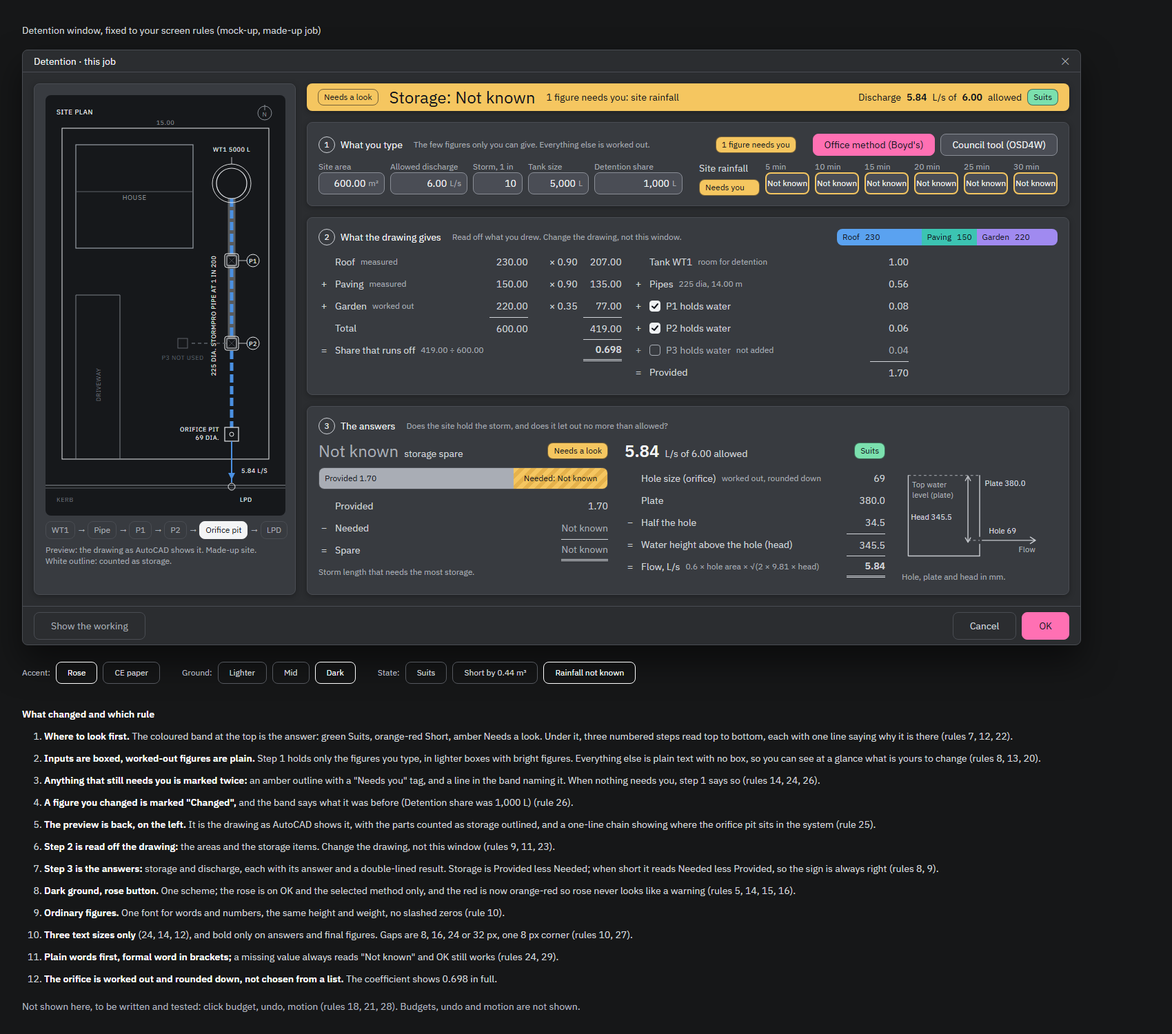
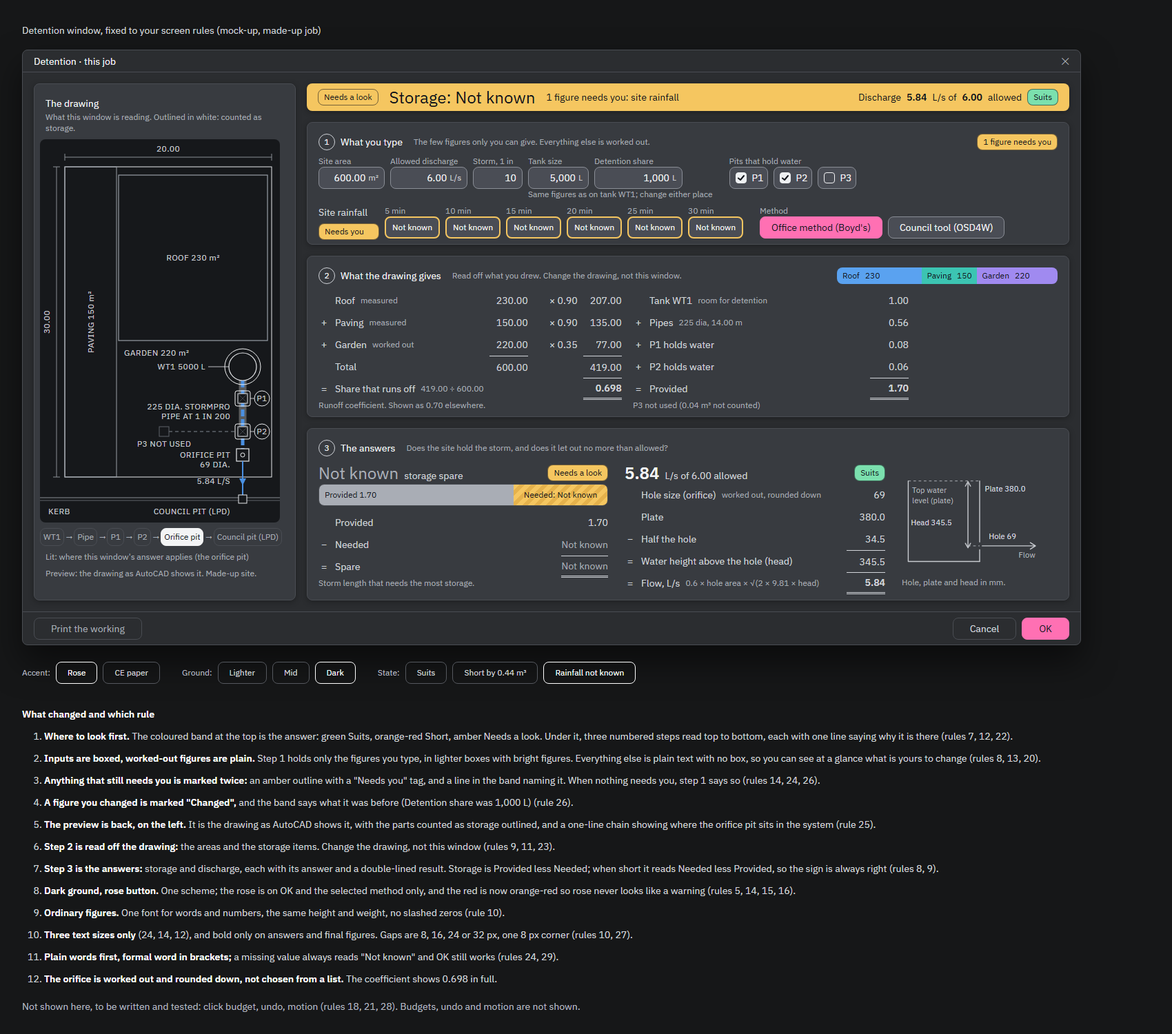
zero: Detention mock-up version 4, checker's blockers fixed

Changed region(s): [[0.0312, 0.092, 0.9041, 0.6133]]

diff --git a/zero/pictures/detention_fixed_mockup.html b/zero/pictures/detention_fixed_mockup.html
@@ -13,7 +13,7 @@
   --win:#2B2D30; --card:#383B40; --well:#232528; --line:#4A4D53;
   --field:#4A4D55; --fieldline:#8A8E96;
   --t-answer:#F3F4F5; --t-body:#D2D5DA; --t-note:#A9AEB6;
-  --sv0:#80848C; --sv1:#C8CBD0; --sv2:#DADCE0; --sv3:#B4B8BE;
+  --unit:#C8CBD0; --sv0:#80848C; --sv1:#C8CBD0; --sv2:#DADCE0; --sv3:#B4B8BE;
   --green:#7BE0AE; --amber:#F5C660; --red:#FF6B4A;
   --ink:#10131A;
   --fill:#A9ADB5;
@@ -40,10 +40,14 @@ body{background:var(--page);color:var(--t-body);font-family:var(--sans);font-siz
 .strong{font-weight:600}
 
 /* preview */
-.preview{width:380px;flex:none;padding:16px;display:flex;flex-direction:column;gap:8px}
+.preview{width:380px;flex:none;padding:16px 8px;display:flex;flex-direction:column;gap:8px}
+.preview .phead{padding:0 8px}
+.preview .phead .t{color:var(--t-answer);display:block;height:24px}
+.preview .phead .note{display:block;height:32px}
+.preview .foot{padding:0 8px}
 .preview svg{display:block;flex:none}
-.chain{display:flex;align-items:center;gap:4px;font-size:12px;line-height:16px;color:var(--t-note);flex:none}
-.chip{border:1px solid var(--line);border-radius:var(--r);padding:4px 8px;color:var(--t-note);white-space:nowrap}
+.chain{display:flex;align-items:center;gap:2px;font-size:12px;line-height:16px;color:var(--t-note);flex:none;white-space:nowrap}
+.chip{border:1px solid var(--line);border-radius:var(--r);padding:4px;color:var(--t-note);white-space:nowrap}
 .chip.lit{background:var(--t-answer);border-color:var(--t-answer);color:var(--ink)}
 
 .right{flex:1;min-width:0;display:flex;flex-direction:column;gap:16px}
@@ -61,7 +65,7 @@ body{background:var(--page);color:var(--t-body);font-family:var(--sans);font-siz
 .pill.changed{background:transparent;color:var(--t-body);border-color:var(--t-body)}
 
 /* steps */
-.step{padding:16px;flex:none}
+.step{padding:16px 16px 8px;flex:none}
 .step.grow{flex:1;min-height:0}
 .shead{display:flex;align-items:center;gap:8px;height:24px;margin-bottom:8px;white-space:nowrap}
 .shead.tall{height:32px}
@@ -70,15 +74,24 @@ body{background:var(--page);color:var(--t-body);font-family:var(--sans);font-siz
 .shead .sp{flex:1}
 
 /* inputs: boxed and bright */
-.row1{display:flex;align-items:flex-end;gap:24px}
+.row1{display:flex;align-items:flex-start;gap:24px}
+.rowb{margin-top:8px;align-items:flex-end}
 .fields{display:flex;gap:8px}
 .fld{display:flex;flex-direction:column}
 .fld > .note{height:16px}
 .inp{height:32px;display:flex;align-items:center;justify-content:flex-end;gap:4px;padding:0 8px;background:var(--field);border:1px solid var(--fieldline);border-radius:var(--r);color:var(--t-answer);font-size:14px;white-space:nowrap}
-.inp .u{font-size:12px;color:var(--t-note)}
+.inp .u{font-size:12px;color:var(--unit)}
 .inp.needs{border:2px solid var(--amber);padding:0 7px}
-.inp.nk{font-size:12px;justify-content:center;padding:0}
-.inp.nk.needs{padding:0}
+.inp.nk{font-size:12px;justify-content:center;padding:0 8px}
+.inp.nk.needs{padding:0 6px}
+.inp.tick{gap:8px;justify-content:flex-start}
+.inp .cb2{width:16px;height:16px;border:1.5px solid var(--t-answer);border-radius:4px;display:inline-flex;align-items:center;justify-content:center;flex:none}
+.inp .cb2.on{background:#EEF0F2;border-color:#EEF0F2}
+.pair{display:flex;flex-direction:column}
+.pair .pr{display:flex;gap:8px}
+.grp{display:flex;flex-direction:column}
+.grp > .note{height:16px}
+.grp .gb{display:flex;gap:8px}
 .rain{display:flex;gap:8px;align-items:flex-end}
 .gl{width:88px;height:48px;display:flex;flex-direction:column;justify-content:center;gap:4px}
 .mbtn{height:32px;padding:0 16px;border-radius:var(--r);border:1px solid var(--fieldline);background:var(--field);color:var(--t-answer);font:inherit;cursor:pointer;white-space:nowrap}
@@ -117,7 +130,7 @@ body{background:var(--page);color:var(--t-body);font-family:var(--sans);font-siz
 .abar div:first-child{border-radius:8px 0 0 8px}
 .abar div:last-child{border-radius:0 8px 8px 0}
 
-.ans{height:32px;display:flex;align-items:baseline;gap:8px;margin-bottom:8px;white-space:nowrap}
+.ans{height:32px;display:flex;align-items:baseline;gap:8px;margin-bottom:0;white-space:nowrap}
 .ans .big{font-size:24px;line-height:32px;color:var(--t-answer)}
 .ans .big.nk{color:var(--t-note);font-weight:400}
 .ans .pill{align-self:center;margin-left:auto}
@@ -134,9 +147,9 @@ body{background:var(--page);color:var(--t-body);font-family:var(--sans);font-siz
 .tb{fill:var(--sv2);stroke:none;font-family:var(--sans);font-size:12px}
 .tn{fill:var(--sv3);stroke:none;font-family:var(--sans);font-size:12px}
 
-.bottom{height:56px;flex:none;border-top:1px solid var(--line);display:flex;justify-content:space-between;align-items:center;padding:0 16px}
+.bottom{height:48px;flex:none;border-top:1px solid var(--line);display:flex;justify-content:space-between;align-items:center;padding:0 16px}
 .bottom .btns{display:flex;gap:8px}
-.btn{height:40px;padding:0 24px;border-radius:var(--r);border:1px solid var(--line);background:transparent;color:var(--t-body);font:inherit}
+.btn{height:32px;padding:0 24px;border-radius:var(--r);border:1px solid var(--line);background:transparent;color:var(--t-body);font:inherit}
 .btn.quiet{color:var(--t-note)}
 .btn.ok{background:var(--acc);border-color:var(--acc);color:var(--acc-ink)}
 
@@ -164,7 +177,7 @@ body{background:var(--page);color:var(--t-body);font-family:var(--sans);font-siz
     </div>
   </div>
   <div class="bottom">
-    <button class="btn quiet">Show the working</button>
+    <button class="btn quiet">Print the working</button>
     <div class="btns"><button class="btn">Cancel</button><button class="btn ok">OK</button></div>
   </div>
 </div>
@@ -186,7 +199,7 @@ body{background:var(--page);color:var(--t-body);font-family:var(--sans);font-siz
     <li><b>Anything that still needs you is marked twice:</b> an amber outline with a "Needs you" tag, and a line in the band naming it. When nothing needs you, step 1 says so (rules 14, 24, 26).</li>
     <li><b>A figure you changed is marked "Changed",</b> and the band says what it was before (Detention share was 1,000 L) (rule 26).</li>
     <li><b>The preview is back, on the left.</b> It is the drawing as AutoCAD shows it, with the parts counted as storage outlined, and a one-line chain showing where the orifice pit sits in the system (rule 25).</li>
-    <li><b>Step 2 is read off the drawing:</b> the areas and the storage items. Change the drawing, not this window (rules 9, 11, 23).</li>
+    <li><b>Step 2 is read off the drawing:</b> the areas and the storage items, all plain text. Which pits hold water is now a boxed choice in step 1 (rules 9, 11, 23).</li>
     <li><b>Step 3 is the answers:</b> storage and discharge, each with its answer and a double-lined result. Storage is Provided less Needed; when short it reads Needed less Provided, so the sign is always right (rules 8, 9).</li>
     <li><b>Dark ground, rose button.</b> One scheme; the rose is on OK and the selected method only, and the red is now orange-red so rose never looks like a warning (rules 5, 14, 15, 16).</li>
     <li><b>Ordinary figures.</b> One font for words and numbers, the same height and weight, no slashed zeros (rule 10).</li>
@@ -205,62 +218,52 @@ body{background:var(--page);color:var(--t-body);font-family:var(--sans);font-siz
   var ground = q.get('ground')==='mid'?'mid':(q.get('ground')==='lighter'?'lighter':'dark');
 
   var grounds={
-    lighter:{win:'#4E5158',card:'#62656E',well:'#40434A',line:'#7C8089',field:'#787B85',fl:'#D5D8DC',a:'#FFFFFF',b:'#F0F1F3',n:'#E2E4E8',sv:['#B9BCC3','#E6E8EB','#F0F1F3','#E2E4E8']},
-    mid:{win:'#3F4247',card:'#50535A',well:'#313338',line:'#6A6D75',field:'#62656D',fl:'#B9BCC3',a:'#FFFFFF',b:'#E6E8EB',n:'#CBCED3',sv:['#9EA2AA','#D5D8DC','#E6E8EB','#CBCED3']},
-    dark:{win:'#2B2D30',card:'#383B40',well:'#232528',line:'#4A4D53',field:'#4A4D55',fl:'#8A8E96',a:'#F3F4F5',b:'#D2D5DA',n:'#A9AEB6',sv:['#80848C','#C8CBD0','#DADCE0','#B4B8BE']}
+    lighter:{unit:'#F0F1F3',win:'#4E5158',card:'#62656E',well:'#40434A',line:'#7C8089',field:'#787B85',fl:'#D5D8DC',a:'#FFFFFF',b:'#F0F1F3',n:'#E2E4E8',sv:['#B9BCC3','#E6E8EB','#F0F1F3','#E2E4E8']},
+    mid:{unit:'#E6E8EB',win:'#3F4247',card:'#50535A',well:'#313338',line:'#6A6D75',field:'#62656D',fl:'#B9BCC3',a:'#FFFFFF',b:'#E6E8EB',n:'#CBCED3',sv:['#9EA2AA','#D5D8DC','#E6E8EB','#CBCED3']},
+    dark:{unit:'#C8CBD0',win:'#2B2D30',card:'#383B40',well:'#232528',line:'#4A4D53',field:'#4A4D55',fl:'#8A8E96',a:'#F3F4F5',b:'#D2D5DA',n:'#A9AEB6',sv:['#80848C','#C8CBD0','#DADCE0','#B4B8BE']}
   };
 
   var tick='<svg width="12" height="12" viewBox="0 0 12 12" fill="none" stroke="#10131A" stroke-width="2" stroke-linecap="round" stroke-linejoin="round"><path d="M2 6.5 L5 9 L10 3"/></svg>';
   var rain=[['5 min','98.6'],['10 min','73.6'],['15 min','60.1'],['20 min','51.5'],['25 min','45.5'],['30 min','40.9']];
 
   function previewSvg(){
-    var T='font-family="IBM Plex Sans, Segoe UI, sans-serif" letter-spacing="0.5"';
-    return '<svg width="348" height="610" viewBox="0 0 348 610">'+
-    '<rect x="0" y="0" width="348" height="610" rx="8" fill="#16181B"/>'+
-    '<text x="16" y="28" fill="#E8EAED" font-size="10" '+T+'>SITE PLAN</text>'+
-    '<circle cx="318" cy="26" r="10" fill="none" stroke="#8A8F96"/><path d="M318 14 V22" stroke="#8A8F96"/><text x="318" y="31" text-anchor="middle" fill="#8A8F96" font-size="9" '+T+'>N</text>'+
-    // boundary
-    '<rect x="24" y="48" width="300" height="480" fill="none" stroke="#E8EAED" stroke-width="1"/>'+
-    '<text x="174" y="43" text-anchor="middle" fill="#8A8F96" font-size="9" '+T+'>15.00</text>'+
-    // house
-    '<rect x="44" y="72" width="170" height="150" fill="none" stroke="#9AA0A8" stroke-width="1.2"/>'+
-    '<path d="M44 140 H214" stroke="#5E636B"/>'+
-    '<text x="129" y="152" text-anchor="middle" fill="#8A8F96" font-size="10" '+T+'>HOUSE</text>'+
-    // driveway
-    '<path d="M44 528 V290 H108 V528" fill="none" stroke="#7C8189" stroke-width="1"/>'+
-    '<text transform="translate(80 420) rotate(-90)" text-anchor="middle" fill="#6E737B" font-size="9" '+T+'>DRIVEWAY</text>'+
-    // kerb
-    '<path d="M0 566 H348" stroke="#8A8F96" stroke-width="1"/><path d="M0 570 H348" stroke="#5E636B" stroke-width="1"/>'+
-    '<text x="16" y="590" fill="#6E737B" font-size="9" '+T+'>KERB</text>'+
-    // pipe halo (counted as storage)
-    '<path d="M270 150 V358" stroke="#F3F4F5" stroke-width="11" opacity="0.3" stroke-linecap="round"/>'+
-    // detention pipe
-    '<path d="M270 150 V482" stroke="#4A90E2" stroke-width="5" stroke-dasharray="12 5"/>'+
-    '<text transform="translate(247 320) rotate(-90)" text-anchor="middle" fill="#E8EAED" font-size="9" '+T+'>225 DIA. STORMPRO PIPE AT 1 IN 200</text>'+
-    // tank + halo
-    '<circle cx="270" cy="128" r="28" fill="none" stroke="#F3F4F5" stroke-width="1" opacity="0.9"/>'+
-    '<circle cx="270" cy="128" r="22" fill="#16181B" stroke="#E8EAED" stroke-width="1.2"/>'+
-    '<path d="M270 100 V90" stroke="#E8EAED" stroke-width="0.8"/>'+
-    '<text x="270" y="82" text-anchor="middle" fill="#E8EAED" font-size="9" '+T+'>WT1 5000 L</text>'+
-    // P1 and P2
-    '<rect x="260" y="230" width="20" height="20" rx="3" fill="none" stroke="#F3F4F5" stroke-width="1"/>'+
-    '<rect x="263" y="233" width="14" height="14" fill="#16181B" stroke="#E8EAED"/><path d="M263 233 L277 247 M277 233 L263 247" stroke="#5E636B" stroke-width="0.6"/>'+
-    '<path d="M280 240 H292" stroke="#E8EAED" stroke-width="0.8"/><circle cx="301" cy="240" r="9" fill="none" stroke="#E8EAED"/><text x="301" y="243.5" text-anchor="middle" fill="#E8EAED" font-size="9" '+T+'>P1</text>'+
-    '<rect x="260" y="350" width="20" height="20" rx="3" fill="none" stroke="#F3F4F5" stroke-width="1"/>'+
-    '<rect x="263" y="353" width="14" height="14" fill="#16181B" stroke="#E8EAED"/><path d="M263 353 L277 367 M277 353 L263 367" stroke="#5E636B" stroke-width="0.6"/>'+
-    '<path d="M280 360 H292" stroke="#E8EAED" stroke-width="0.8"/><circle cx="301" cy="360" r="9" fill="none" stroke="#E8EAED"/><text x="301" y="363.5" text-anchor="middle" fill="#E8EAED" font-size="9" '+T+'>P2</text>'+
-    // P3 dimmed
-    '<path d="M262 360 H208" stroke="#5E636B" stroke-width="1.5" stroke-dasharray="5 4"/>'+
-    '<rect x="192" y="353" width="14" height="14" fill="#16181B" stroke="#5E636B"/>'+
-    '<text x="199" y="384" text-anchor="middle" fill="#5E636B" font-size="9" '+T+'>P3 NOT USED</text>'+
-    // orifice pit
-    '<rect x="260" y="482" width="20" height="20" fill="#16181B" stroke="#E8EAED" stroke-width="1.2"/><circle cx="270" cy="492" r="3" fill="none" stroke="#E8EAED"/>'+
-    '<text x="252" y="488" text-anchor="end" fill="#E8EAED" font-size="9" '+T+'>ORIFICE PIT</text><text x="252" y="500" text-anchor="end" fill="#E8EAED" font-size="9" '+T+'>69 DIA.</text>'+
-    // pipe to LPD with flow arrow
-    '<path d="M270 502 V562" stroke="#4A90E2" stroke-width="2"/><path d="M265 548 L270 558 L275 548 Z" fill="#4A90E2"/>'+
-    '<text x="284" y="548" fill="#E8EAED" font-size="9" '+T+'>5.84 L/S</text>'+
-    '<circle cx="270" cy="568" r="5" fill="none" stroke="#E8EAED"/>'+
-    '<text x="282" y="590" fill="#E8EAED" font-size="9" '+T+'>LPD</text>'+
+    var T='font-family="IBM Plex Sans, Segoe UI, sans-serif" letter-spacing="0.4"';
+    var W='#C8CBD0';
+    function tx(x,y,t,extra){return '<text x="'+x+'" y="'+y+'" fill="'+W+'" font-size="12" '+T+' '+(extra||'')+'>'+t+'</text>';}
+    return '<svg width="348" height="556" viewBox="0 0 348 556">'+
+    '<rect x="0" y="0" width="348" height="556" rx="8" fill="#16181B"/>'+
+    '<path d="M36 26 H336 M36 21 V31 M336 21 V31" stroke="#8A8F96" stroke-width="1"/>'+
+    tx(186,18,'20.00','text-anchor="middle"')+
+    '<path d="M24 40 V490 M19 40 H29 M19 490 H29" stroke="#8A8F96" stroke-width="1"/>'+
+    tx(0,0,'30.00','text-anchor="middle" transform="translate(14 265) rotate(-90)"')+
+    '<rect x="36" y="40" width="300" height="450" fill="none" stroke="#E8EAED" stroke-width="1"/>'+
+    '<rect x="36" y="40" width="75" height="450" fill="none" stroke="#9AA0A8" stroke-width="1"/>'+
+    tx(0,0,'PAVING 150 m²','text-anchor="middle" transform="translate(78 265) rotate(-90)"')+
+    '<rect x="114" y="52" width="216" height="240" fill="none" stroke="#9AA0A8" stroke-width="1.2"/>'+
+    tx(222,176,'ROOF 230 m²','text-anchor="middle"')+
+    tx(122,314,'GARDEN 220 m²')+
+    '<path d="M0 520 H348" stroke="#8A8F96"/><path d="M0 524 H348" stroke="#5E636B"/>'+
+    tx(12,544,'KERB')+
+    '<path d="M294 350 V426" stroke="#F3F4F5" stroke-width="11" opacity="0.3" stroke-linecap="round"/>'+
+    '<path d="M294 350 V449" stroke="#4A90E2" stroke-width="5" stroke-dasharray="10 4"/>'+
+    tx(276,392,'225 DIA. STORMPRO','text-anchor="end"')+tx(276,406,'PIPE AT 1 IN 200','text-anchor="end"')+
+    '<circle cx="294" cy="330" r="26" fill="none" stroke="#F3F4F5" stroke-width="1"/>'+
+    '<circle cx="294" cy="330" r="20" fill="#16181B" stroke="#E8EAED" stroke-width="1.2"/>'+
+    '<path d="M274 330 H244" stroke="#E8EAED" stroke-width="0.8"/>'+
+    tx(240,334,'WT1 5000 L','text-anchor="end"')+
+    '<rect x="283" y="365" width="22" height="22" rx="3" fill="none" stroke="#F3F4F5"/><rect x="287" y="369" width="14" height="14" fill="#16181B" stroke="#E8EAED"/><path d="M287 369 L301 383 M301 369 L287 383" stroke="#5E636B" stroke-width="0.6"/>'+
+    '<path d="M305 376 H311" stroke="#E8EAED" stroke-width="0.8"/><circle cx="322" cy="376" r="11" fill="none" stroke="#E8EAED"/>'+tx(322,380,'P1','text-anchor="middle"')+
+    '<rect x="283" y="413" width="22" height="22" rx="3" fill="none" stroke="#F3F4F5"/><rect x="287" y="417" width="14" height="14" fill="#16181B" stroke="#E8EAED"/><path d="M287 417 L301 431 M301 417 L287 431" stroke="#5E636B" stroke-width="0.6"/>'+
+    '<path d="M305 424 H311" stroke="#E8EAED" stroke-width="0.8"/><circle cx="322" cy="424" r="11" fill="none" stroke="#E8EAED"/>'+tx(322,428,'P2','text-anchor="middle"')+
+    '<path d="M187 424 H283" stroke="#5E636B" stroke-width="1.5" stroke-dasharray="5 4"/>'+
+    '<rect x="173" y="417" width="14" height="14" fill="#16181B" stroke="#5E636B"/>'+
+    tx(180,446,'P3 NOT USED','text-anchor="middle"')+
+    '<rect x="285" y="449" width="18" height="18" fill="#16181B" stroke="#E8EAED" stroke-width="1.2"/><circle cx="294" cy="458" r="3" fill="none" stroke="#E8EAED"/>'+
+    tx(276,462,'ORIFICE PIT','text-anchor="end"')+tx(276,476,'69 DIA.','text-anchor="end"')+
+    '<path d="M294 467 V516" stroke="#4A90E2" stroke-width="2"/><path d="M289 492 L294 502 L299 492 Z" fill="#4A90E2"/>'+
+    tx(276,500,'5.84 L/S','text-anchor="end"')+
+    '<rect x="288" y="516" width="12" height="12" fill="#16181B" stroke="#E8EAED"/>'+
+    tx(276,544,'COUNCIL PIT (LPD)','text-anchor="end"')+
     '</svg>';
   }
 
@@ -270,9 +273,11 @@ body{background:var(--page);color:var(--t-body);font-family:var(--sans);font-siz
     var provided = short?'1.20':'1.70';
 
     // preview
-    document.getElementById('preview').innerHTML = previewSvg()+
-      '<div class="chain"><span class="chip">WT1</span>&rarr;<span class="chip">Pipe</span>&rarr;<span class="chip">P1</span>&rarr;<span class="chip">P2</span>&rarr;<span class="chip lit">Orifice pit</span>&rarr;<span class="chip">LPD</span></div>'+
-      '<div class="note">Preview: the drawing as AutoCAD shows it. Made-up site.<br>White outline: counted as storage.</div>';
+    document.getElementById('preview').innerHTML =
+      '<div class="phead"><span class="t">The drawing</span><span class="note">What this window is reading. Outlined in white: counted as storage.</span></div>'+previewSvg()+
+      '<div class="chain"><span class="chip">WT1</span>&rarr;<span class="chip">Pipe</span>&rarr;<span class="chip">P1</span>&rarr;<span class="chip">P2</span>&rarr;<span class="chip lit">Orifice pit</span>&rarr;<span class="chip">Council pit (LPD)</span></div>'+
+      '<div class="note foot">Lit: where this window\'s answer applies (the orifice pit)</div>'+
+      '<div class="note foot">Preview: the drawing as AutoCAD shows it. Made-up site.</div>';
 
     // band
     var bandCls = short?'red':(unk?'amber':'green');
@@ -287,19 +292,25 @@ body{background:var(--page);color:var(--t-body);font-family:var(--sans);font-siz
     function inp(label,val,unit,w,extra,cls){return '<div class="fld" style="width:'+w+'px"><span class="note">'+label+'</span><div class="inp '+(cls||'')+'">'+(extra||'')+'<span>'+val+'</span>'+(unit?'<span class="u">'+unit+'</span>':'')+'</div></div>';}
     var detExtra = short?'<span class="pill changed" style="margin-right:auto">Changed</span>':'';
     var rainWells = rain.map(function(r){
-      return '<div class="fld" style="width:64px"><span class="note">'+r[0]+'</span><div class="inp'+(unk?' nk needs':'')+'">'+(unk?'Not known':'<span>'+r[1]+'</span>')+'</div></div>';
+      return '<div class="fld" style="width:80px"><span class="note">'+r[0]+'</span><div class="inp'+(unk?' nk needs':'')+'">'+(unk?'Not known':'<span>'+r[1]+'</span>')+'</div></div>';
     }).join('');
+    function tk(lbl,on){return '<div class="inp tick" style="width:56px"><span class="cb2'+(on?' on':'')+'">'+(on?tick:'')+'</span><span>'+lbl+'</span></div>';}
     var needsRight = unk?'<span class="pill amber">1 figure needs you</span>':'<span class="note">Nothing needs you</span>';
     document.getElementById('s1c').innerHTML =
-      '<div class="shead tall"><span class="n">1</span><span class="t">What you type</span><span class="note">The few figures only you can give. Everything else is worked out.</span><span class="sp"></span>'+needsRight+
-        '<span class="methods" style="margin-left:16px"><button class="mbtn sel" id="m1">Office method (Boyd\'s)</button><button class="mbtn" id="m2">Council tool (OSD4W)</button></span></div>'+
-      '<div class="row1"><div class="fields">'+
-        inp('Site area','600.00','m²',96)+
-        inp('Allowed discharge','6.00','L/s',112)+
-        inp('Storm, 1 in','10','',72)+
-        inp('Tank size','5,000','L',88)+
-        inp('Detention share',short?'500':'1,000','L',128,detExtra)+
-      '</div><div class="rain"><div class="gl"><span>Site rainfall</span>'+(unk?'<span class="pill amber">Needs you</span>':'<span class="note">1 in 10, mm/h</span>')+'</div>'+rainWells+'</div></div>';
+      '<div class="shead"><span class="n">1</span><span class="t">What you type</span><span class="note">The few figures only you can give. Everything else is worked out.</span><span class="sp"></span>'+needsRight+'</div>'+
+      '<div class="row1">'+
+        '<div class="fields">'+
+          inp('Site area','600.00','m²',96)+
+          inp('Allowed discharge','6.00','L/s',112)+
+          inp('Storm, 1 in','10','',72)+
+          '<div class="pair"><div class="pr">'+inp('Tank size','5,000','L',88)+inp('Detention share',short?'500':'1,000','L',128,detExtra)+'</div><span class="note">Same figures as on tank WT1; change either place</span></div>'+
+        '</div>'+
+        '<div class="grp"><span class="note">Pits that hold water</span><div class="gb">'+tk('P1',true)+tk('P2',true)+tk('P3',false)+'</div></div>'+
+      '</div>'+
+      '<div class="row1 rowb">'+
+        '<div class="rain"><div class="gl"><span>Site rainfall</span>'+(unk?'<span class="pill amber">Needs you</span>':'<span class="note">1 in 10, mm/h</span>')+'</div>'+rainWells+'</div>'+
+        '<div class="grp"><span class="note">Method</span><div class="gb"><button class="mbtn sel" id="m1">Office method (Boyd\'s)</button><button class="mbtn" id="m2">Council tool (OSD4W)</button></div></div>'+
+      '</div>';
 
     // step 2
     function r5(s,l,src,a,x,e){return '<div class="s">'+s+'</div><div class="l">'+l+(src?'<small>'+src+'</small>':'')+'</div><div>'+a+'</div><div class="x">'+x+'</div><div>'+e+'</div>';}
@@ -313,15 +324,14 @@ body{background:var(--page);color:var(--t-body);font-family:var(--sans);font-siz
           r5('+','Garden','worked out','220.00','&times; 0.35','77.00')+
           '<div class="s"></div><div class="l">Total</div><div class="line">600.00</div><div class="x"></div><div class="line">419.00</div>'+
           '<div class="s">=</div><div class="l">Share that runs off <small>419.00 &divide; 600.00</small></div><div></div><div class="x"></div><div class="line dbl strong">0.698</div>'+
-        '</div></div>'+
+        '</div><div class="note" style="margin-top:0">Runoff coefficient. Shown as 0.70 elsewhere.</div></div>'+
         '<div style="width:400px"><div class="sum">'+
           '<div class="s"></div><div class="l">Tank WT1 <small>room for detention</small></div><div class="v">'+tank+'</div>'+
           '<div class="s">+</div><div class="l">Pipes <small>225 dia, 14.00 m</small></div><div class="v">0.56</div>'+
-          '<div class="s">+</div><div class="l"><span class="cb on">'+tick+'</span>P1 holds water</div><div class="v">0.08</div>'+
-          '<div class="s">+</div><div class="l"><span class="cb on">'+tick+'</span>P2 holds water</div><div class="v">0.06</div>'+
-          '<div class="s off">+</div><div class="l off"><span class="cb"></span>P3 holds water <small>not added</small></div><div class="v off">0.04</div>'+
-          '<div class="s">=</div><div class="l">Provided</div><div class="v line">'+provided+'</div>'+
-        '</div></div>'+
+          '<div class="s">+</div><div class="l">P1 holds water</div><div class="v">0.08</div>'+
+          '<div class="s">+</div><div class="l">P2 holds water</div><div class="v">0.06</div>'+
+          '<div class="s">=</div><div class="l">Provided</div><div class="v line dbl strong">'+provided+'</div>'+
+        '</div><div class="note" style="margin-top:0">P3 not used (0.04 m³ not counted)</div></div>'+
       '</div>';
 
     // step 3
@@ -362,7 +372,7 @@ body{background:var(--page);color:var(--t-body);font-family:var(--sans);font-siz
     document.getElementById('s3c').innerHTML =
       '<div class="shead"><span class="n">3</span><span class="t">The answers</span><span class="note">Does the site hold the storm, and does it let out no more than allowed?</span></div>'+
       '<div class="cols">'+
-        '<div style="width:420px"><div class="ans">'+ans+pill+'</div>'+bar+'<div class="sum">'+srows+'</div><div class="note" style="margin-top:8px">Storm length that needs the most storage.</div></div>'+
+        '<div style="width:420px"><div class="ans">'+ans+pill+'</div>'+bar+'<div class="sum">'+srows+'</div><div class="note" style="margin-top:0">Storm length that needs the most storage.</div></div>'+
         '<div style="flex:1;display:flex;gap:24px"><div style="width:392px"><div class="ans"><span class="big strong">5.84</span><span>L/s of 6.00 allowed</span><span class="pill green">Suits</span></div><div class="sum">'+
           '<div class="s"></div><div class="l">Hole size (orifice) <small>worked out, rounded down</small></div><div class="v">69</div>'+
           '<div class="s"></div><div class="l">Plate</div><div class="v">380.0</div>'+
@@ -370,7 +380,7 @@ body{background:var(--page);color:var(--t-body);font-family:var(--sans);font-siz
           '<div class="s">=</div><div class="l">Water height above the hole (head)</div><div class="v line">345.5</div>'+
           '<div class="s">=</div><div class="l">Flow, L/s <small>0.6 &times; hole area &times; &radic;(2 &times; 9.81 &times; head)</small></div><div class="v line dbl strong">5.84</div>'+
         '</div></div>'+
-        '<div style="padding-top:40px">'+sk+'<div class="note">Hole, plate and head in mm.</div></div></div>'+
+        '<div style="padding-top:16px">'+sk+'<div class="note">Hole, plate and head in mm.</div></div></div>'+
       '</div>';
 
     ['s1','s2','s3'].forEach(function(id,i){document.getElementById(id).className=(['suits','short','notknown'][i]===state)?'on':'';});
@@ -386,7 +396,7 @@ body{background:var(--page);color:var(--t-body);font-family:var(--sans);font-siz
   function applyGround(){
     var g=grounds[ground],r=document.documentElement.style;
     r.setProperty('--win',g.win);r.setProperty('--card',g.card);r.setProperty('--well',g.well);r.setProperty('--line',g.line);
-    r.setProperty('--field',g.field);r.setProperty('--fieldline',g.fl);
+    r.setProperty('--unit',g.unit);r.setProperty('--field',g.field);r.setProperty('--fieldline',g.fl);
     r.setProperty('--t-answer',g.a);r.setProperty('--t-body',g.b);r.setProperty('--t-note',g.n);
     g.sv.forEach(function(c,i){r.setProperty('--sv'+i,c);});
     ['g1','g2','g3'].forEach(function(id,i){document.getElementById(id).className=(['lighter','mid','dark'][i]===ground)?'on':'';});
